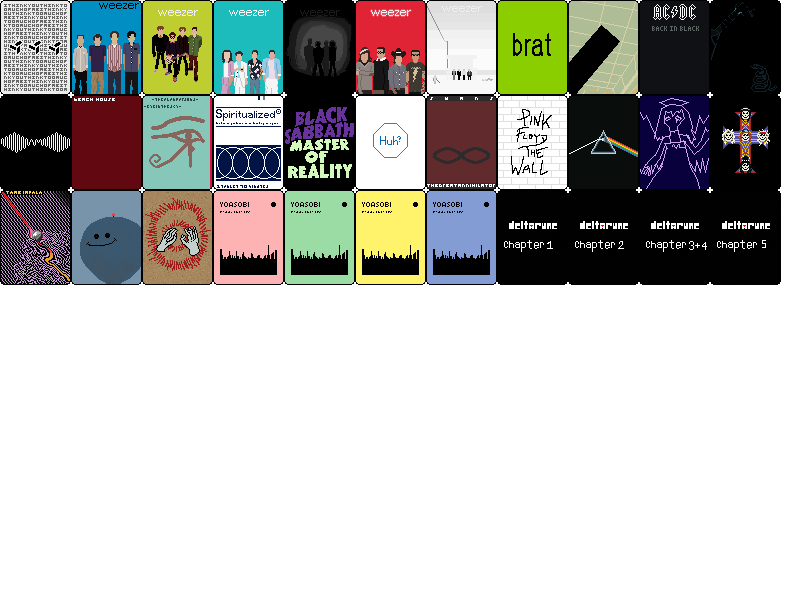
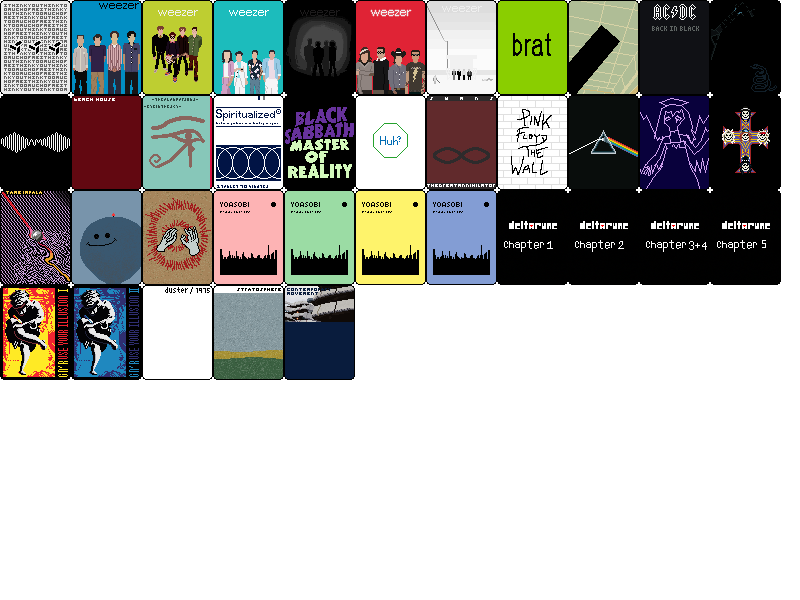
fixed duplicate entries, new art

Changed region(s): [[0.25, 0.45, 0.4688, 0.66], [0.0, 0.45, 0.1875, 0.66]]

diff --git a/README.md b/README.md
@@ -14,6 +14,12 @@ This is purely for testing purposes right now, so if you found this somehow cong
 
 VERSION HISTORY:
 
+0.1.5.0 - 64 Total Cards now added
+
+0.1.4.0 - Art for more cards
+
+0.1.3.0 - 30 Cards now added
+
 0.1.2.0 - First 6 cards
 
 0.1.1.0 - Nothing im an idiot
@@ -24,9 +30,11 @@ CURRENT FEATURES:
 
 New Consumable Type: Albums
 
- Total New Albums
+64 Total New Albums
 
 Custom Music and SFX!
+
+Some Custom Art
 
 
 PLANNED FEATURES:
